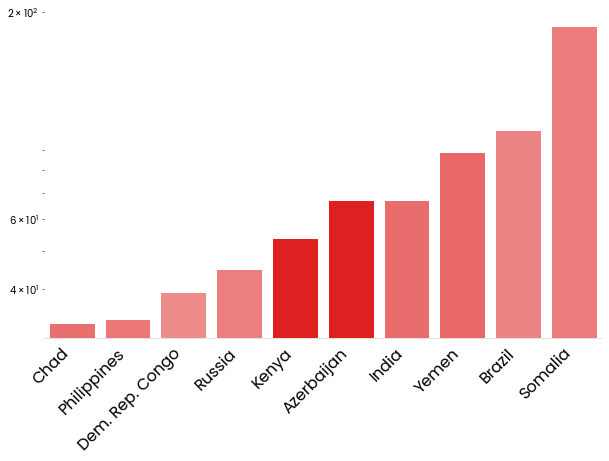
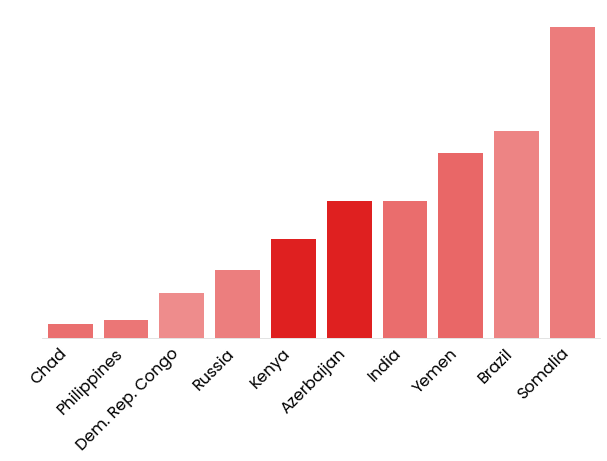
up new format

diff --git a/test.py b/test.py
@@ -323,7 +323,7 @@ plt.plot(date_rng[-h:], historical_series[-h:], marker='o', color='red', linesty
 plt.scatter(date_rng[-h:], historical_series[-h:], color='red', s=100, zorder=5)
 plt.grid(axis='y', linestyle='--', alpha=0.7)
 plt.xlabel('Date', fontsize=20)
-plt.xticks(fontsize=16)  # Set x-axis tick font size
+plt.xticks(fontsize=16)
 plt.yticks(fontsize=16)
 plt.box(False)
 plt.xticks(rotation=45, ha='right')
@@ -389,31 +389,33 @@ def calculate_alpha(row):
     diff_ratio = abs(row['value'] - row['hist']) / (row['hist']+1)
     return np.clip(diff_ratio / 2 +0.5 , 0, 1)
 df_plot['alpha'] = df_plot.apply(calculate_alpha, axis=1)
-plt.figure(figsize=(10, 6))
+
+fig, ax = plt.subplots(1, 1, figsize=(10, 6))
 ax = sns.barplot(x=df_plot.index, y='value', data=df_plot, palette=df_plot['color'])
 for i, bar in enumerate(ax.patches):
     bar.set_alpha(df_plot['alpha'].iloc[i])
 ax.set_xticklabels(ax.get_xticklabels(), rotation=45, ha='right')
+# ax.set_yticklabels(ax.get_yticklabels(), rotation=45, ha='right',color='white')
 ax.spines['top'].set_visible(False)
 ax.spines['right'].set_visible(False)
-ax.spines['left'].set_visible(False)
 ax.spines['bottom'].set_color('#DDDDDD')
-ax.tick_params(bottom=False, left=False)
-ax.set_axisbelow(True)
-ax.yaxis.grid(True, color='#EEEEEE')
-ax.xaxis.grid(False)
-#plt.xlabel('Country', fontsize=20)
+ax.tick_params(bottom=False)
+# ax.yaxis.grid(True, color='#EEEEEE',alpha=1)
+# ax.xaxis.grid(False)
 plt.xlabel('')
 plt.ylabel('')
-#plt.title('Most risky countries (log scale)', fontsize=16)
 plt.yscale('log')
-plt.xticks(fontsize=16)  # Set x-axis tick font size
+plt.xticks(fontsize=16)
 plt.yticks(fontsize=16)
 ax.spines['left'].set_visible(False)
 ax.set_yticklabels([])
 ax.set_yticks([])
+ax.get_yaxis().get_major_formatter().labelOnlyBase = False
+ax.get_yaxis().set_tick_params(which='minor', size=0,labelcolor='white')
+ax.get_yaxis().set_tick_params(which='minor', width=0,labelcolor='white') 
 plt.savefig('Images/sub2.png', bbox_inches='tight')
 plt.show()
+
 
 # =============================================================================
 # Increase risk
@@ -434,7 +436,7 @@ df_plot_d = df_plot.iloc[:10]
 df_plot_d['diff'] = -df_plot_d['diff']
 df_plot_d = df_plot_d.sort_values('diff',ascending=True)
 
-plt.figure(figsize=(10, 6))
+fig, ax = plt.subplots(1, 1, figsize=(10, 6))
 ax = sns.barplot(x=df_plot_d.index, y='diff', data=df_plot_d, palette=df_plot_d['color'])
 for i, bar in enumerate(ax.patches):
     bar.set_alpha(df_plot_d['alpha'].iloc[i])
@@ -451,16 +453,18 @@ plt.xlabel('')
 plt.ylabel('')
 plt.yscale('log')
 plt.xticks(fontsize=16)  # Set x-axis tick font size
-plt.yticks(fontsize=16)
 ax.spines['left'].set_visible(False)
 ax.set_yticklabels([])
 ax.set_yticks([])
+ax.get_yaxis().get_major_formatter().labelOnlyBase = False
+ax.get_yaxis().set_tick_params(which='minor', size=0,labelcolor='white')
+ax.get_yaxis().set_tick_params(which='minor', width=0,labelcolor='white') 
 plt.savefig('Images/sub2_d.png', bbox_inches='tight')
 plt.show()
 
 df_plot_d = df_plot.iloc[-10:]
 
-plt.figure(figsize=(10, 6))
+fig, ax = plt.subplots(1, 1, figsize=(10, 6))
 ax = sns.barplot(x=df_plot_d.index, y='diff', data=df_plot_d, palette=df_plot_d['color'])
 for i, bar in enumerate(ax.patches):
     bar.set_alpha(df_plot_d['alpha'].iloc[i])
@@ -473,18 +477,19 @@ ax.tick_params(bottom=False, left=False)
 ax.set_axisbelow(True)
 ax.yaxis.grid(True, color='#EEEEEE')
 ax.xaxis.grid(False)
-#plt.xlabel('Country', fontsize=20)
 plt.xlabel('')
 plt.ylabel('')
-#plt.title('Most risky countries (log scale)', fontsize=16)
 plt.yscale('log')
-plt.xticks(fontsize=16)  # Set x-axis tick font size
-plt.yticks(fontsize=16)
+plt.xticks(fontsize=16)
 ax.spines['left'].set_visible(False)
 ax.set_yticklabels([])
 ax.set_yticks([])
+ax.get_yaxis().get_major_formatter().labelOnlyBase = False
+ax.get_yaxis().set_tick_params(which='minor', size=0,labelcolor='white')
+ax.get_yaxis().set_tick_params(which='minor', width=0,labelcolor='white') 
 plt.savefig('Images/sub2_i.png', bbox_inches='tight')
 plt.show()
+
 
 
 # =============================================================================
